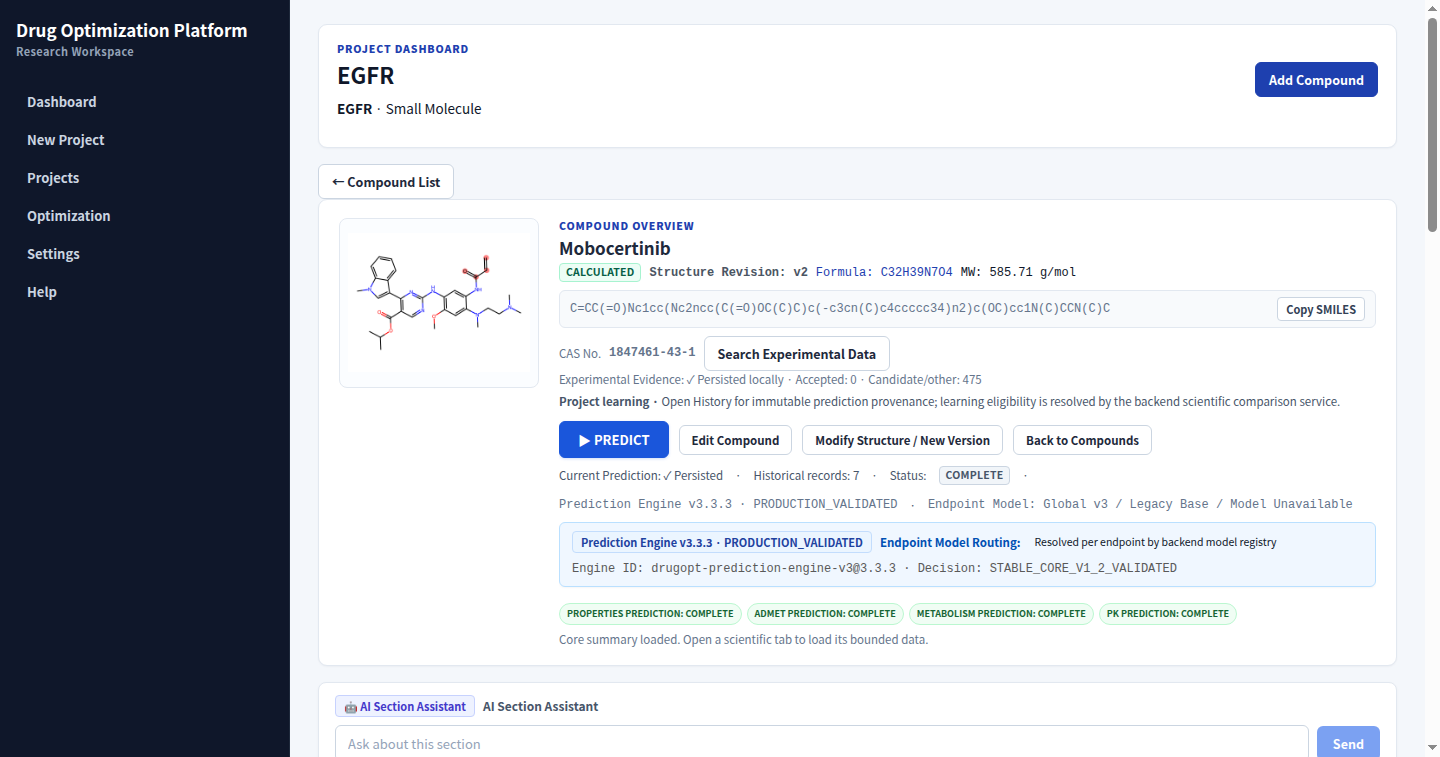
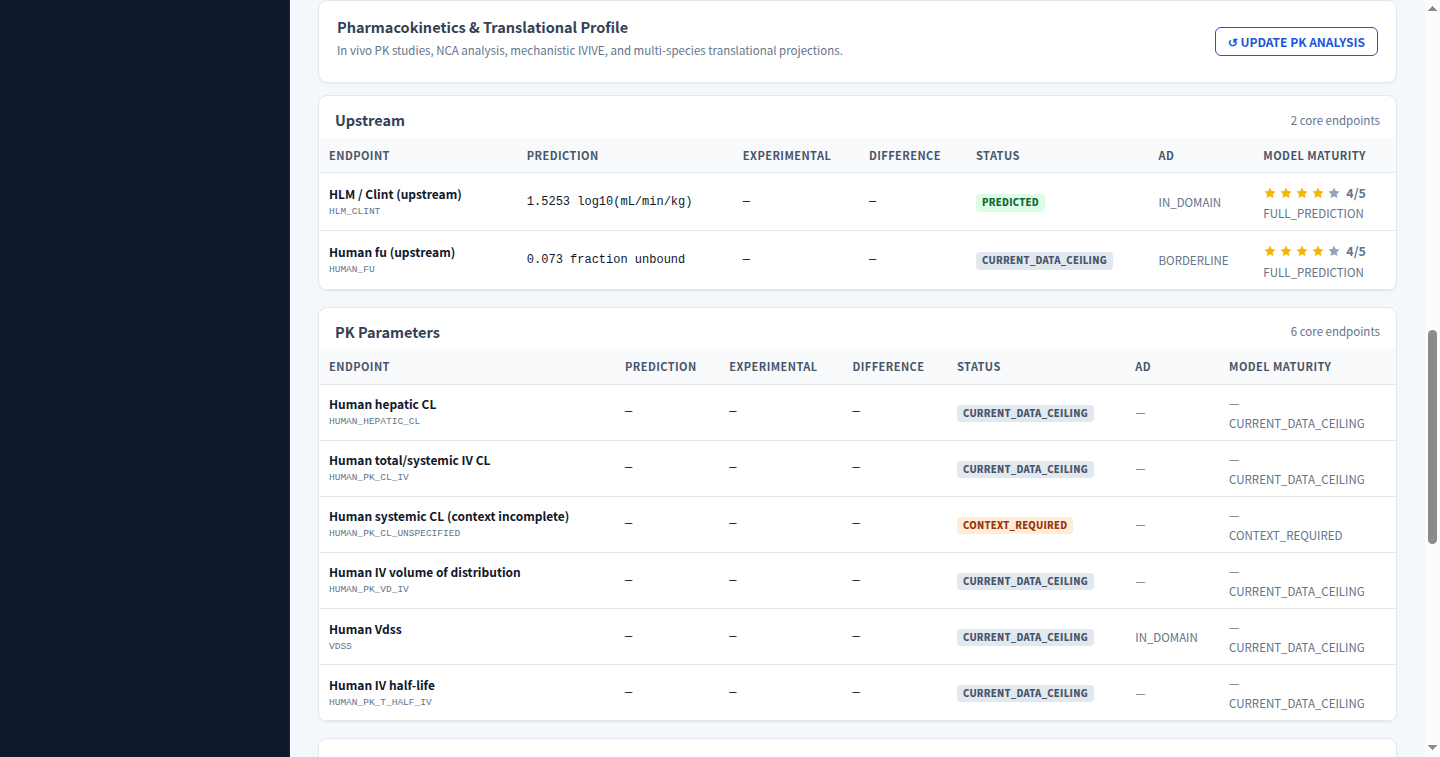
feat: show core prediction results in compound overview

diff --git a/frontend/static/app.js b/frontend/static/app.js
@@ -4455,19 +4455,26 @@ function integratedProfile(versionId){
   if(developabilityLoading&&!developabilityProfile)return e('section',{className:'card'},'Loading Developability Summary…');
   const groups=developabilityProfile?.groups;
   if(!groups)return e('section',{className:'card'},[e('h2',{},'Developability Summary'),e('p',{className:'small'},'Canonical profile unavailable for this CompoundVersion.')]);
+  const pick=(group,endpoints)=>(groups[group]||[]).filter(row=>endpoints.includes(row.query_endpoint));
   const cards=[
-   ['PhysChem',[...(groups.physchem||[]).filter(row=>['CLOGP','LOGD_7_4','SOLUBILITY_GENERIC','TPSA'].includes(row.query_endpoint))]],
-   ['Absorption',groups.absorption||[]],
-   ['Distribution',groups.distribution||[]],
+   ['ADMET',[
+    ...pick('physchem',['SOLUBILITY_GENERIC']),
+    ...pick('absorption',['CACO2_PAPP_AB','HIA','PAMPA_PERMEABILITY'])
+   ]],
+   ['Distribution',pick('distribution',['HUMAN_PPB','HUMAN_FU','BBB_PENETRATION','VDSS'])],
    ['Stability',groups.metabolic_stability||[]],
-   ['Safety',(groups.safety||[]).filter(row=>['HERG_LIABILITY','AMES_MUTAGENICITY','DILI_LIABILITY'].includes(row.query_endpoint))],
-   ['PK',(groups.pk||[]).filter(row=>row.semantic==='PK_PARAMETER').slice(0,5)]
+   ['CYP Quantitative',pick('cyp',['CYP1A2_INHIBITION','CYP2C9_INHIBITION','CYP2C19_INHIBITION','CYP2D6_INHIBITION','CYP3A4_INHIBITION'])],
+   ['CYP Classification',(groups.cyp||[]).filter(row=>row.semantic!=='QUANTITATIVE_INHIBITION')],
+   ['Transporters',pick('transporters',['PGP_INHIBITION','BCRP_INHIBITOR'])],
+   ['Safety',pick('safety',['HERG_LIABILITY','HERG_CLASS','AMES_MUTAGENICITY','DILI_LIABILITY'])],
+   ['Metabolism',groups.metabolism||[]],
+   ['PK',(groups.pk||[]).filter(row=>row.semantic==='PK_PARAMETER'||row.semantic==='CONTEXTUAL_PK')]
   ];
-  return e('section',{className:'developability-summary',key:'developability-summary'},[
-   e('div',{className:'developability-title'},[e('div',{},[e('div',{className:'eyebrow'},'PREDICTION-FIRST'),e('h2',{},'Developability Summary'),e('p',{className:'small'},'Predictions lead; accepted experimental evidence is shown inline for validation. Rows remain visible when a model or scientific context is unavailable.')]),e('span',{className:'mono small'},developabilityProfile.prediction_engine?.engine_id)]),
-   e('div',{className:'developability-card-grid'},cards.map(([title,rows])=>e('article',{className:'developability-summary-card',key:title},[
+  return e('section',{className:'developability-summary',id:'overview-developability-results',key:'developability-summary'},[
+   e('div',{className:'developability-title'},[e('div',{},[e('div',{className:'eyebrow'},'PREDICTION-FIRST'),e('h2',{},'Developability Summary — Core Prediction Results'),e('p',{className:'small'},'Canonical results follow the calculated compound properties. Predictions lead; accepted experimental evidence and precise unavailable or context-required states remain visible inline.')]),e('span',{className:'mono small'},developabilityProfile.prediction_engine?.engine_id)]),
+   e('div',{className:'developability-card-grid'},cards.map(([title,rows])=>e('article',{className:'developability-summary-card',key:title,'data-overview-group':title},[
     e('h3',{},title),
-    ...rows.map(row=>e('div',{className:'developability-summary-row',key:row.query_endpoint},[
+    ...rows.map((row,index)=>e('div',{className:'developability-summary-row',key:row.query_endpoint+'|'+row.semantic+'|'+index,'data-endpoint':row.query_endpoint},[
      e('span',{},row.display_name),
      e('strong',{className:'mono'},profileValue(row.prediction,row.unit)),
      row.experimental&&e('small',{className:'mono'},'Exp '+profileValue(row.experimental,row.unit)),
@@ -4668,8 +4675,7 @@ function integratedProfile(versionId){
     return e('button',{key:tab,className:detailTab===tab?'active-tab':'secondary',disabled:!version&&['properties','admet','metabolism','pk','evidence'].includes(tab),onClick:()=>setDetailTab(tab)},[e('span',{key:'label'},tab.toUpperCase()),tab!=='overview'&&tab!=='history'&&e('small',{key:'status',className:'tab-status'},status)]);
    })),
    detailTab==='overview'&&e('div',{key:'overview-tab'},[
-    developabilitySummary(),
-    false&&e('div',{className:'card',key:'overview-properties'},[
+    e('div',{className:'card overview-properties',key:'overview-properties'},[
      e('div',{className:'eyebrow'},'BASIC PROPERTY SUMMARY'),
      e('h3',{},'Physicochemical & Drug-Likeness Summary (Calculated / RDKit)'),
      e('p',{className:'small'},'Deterministic calculated small molecule properties and drug-likeness compliance.'),
@@ -4689,6 +4695,7 @@ function integratedProfile(versionId){
       ScientificBadge({assessment:item.i.assessment,colorClass:item.i.colorClass,textLabel:item.i.label})
      ])))
     ]),
+    developabilitySummary(),
     false&&e('div',{className:'card',key:'overview-admet-highlights'},[
      e('div',{className:'row toolbar'},[
       e('div',{},[

diff --git a/frontend/static/app.css b/frontend/static/app.css
@@ -1715,6 +1715,7 @@ td.num, th.num { text-align: right; font-variant-numeric: tabular-nums; }
 
 /* Prediction-first developability workspace */
 .developability-summary { margin: 0 0 16px; }
+.overview-properties + .developability-summary { margin-top: 16px; }
 .developability-title {
   display: flex; justify-content: space-between; align-items: flex-start; gap: 16px;
   padding: 18px 20px; color: #f8fafc; background: linear-gradient(120deg,#102a43,#164e63);
@@ -1772,4 +1773,3 @@ td.num, th.num { text-align: right; font-variant-numeric: tabular-nums; }
   .developability-table td:first-child strong { font-size:14px; }
   .developability-table .maturity-stars { min-width:0; }
 }
-

diff --git a/scripts/mobocertinib_prediction_completeness_e2e.py b/scripts/mobocertinib_prediction_completeness_e2e.py
@@ -31,6 +31,22 @@ def assert_value(browser, endpoint: str) -> None:
     assert endpoint_cell(browser, endpoint, ".developability-status") in {"PREDICTED", "EXPERIMENTAL_AVAILABLE"}, endpoint
 
 
+def overview_row(browser, endpoint: str):
+    section = browser.find_element(By.ID, "overview-developability-results")
+    return section.find_element(By.CSS_SELECTOR, f".developability-summary-row[data-endpoint='{endpoint}']")
+
+
+def assert_overview_order(browser) -> None:
+    properties = browser.find_element(By.CSS_SELECTOR, ".overview-properties")
+    results = browser.find_element(By.ID, "overview-developability-results")
+    follows = browser.execute_script(
+        "return Boolean(arguments[0].compareDocumentPosition(arguments[1]) & Node.DOCUMENT_POSITION_FOLLOWING)",
+        properties,
+        results,
+    )
+    assert follows, "calculated compound Properties must precede core prediction results"
+
+
 def main() -> None:
     projects = api("/api/projects")
     project = next(row for row in projects if row["name"] == "EGFR")
@@ -60,6 +76,27 @@ def main() -> None:
             open_project_compound(desktop, wait, "EGFR", "Mobocertinib")
             click(desktop, "▶ PREDICT")
             wait.until(lambda d: "Predicted:" in d.page_source and "Failed: 0" in d.page_source)
+
+            wait.until(lambda d: d.find_elements(By.ID, "overview-developability-results"))
+            assert_overview_order(desktop)
+            expected_overview = {
+                "SOLUBILITY_GENERIC": "-5.6371 log10(mol/L)",
+                "CACO2_PAPP_AB": "-4.9117 log10(cm/s)",
+                "HUMAN_PPB": "92.7 % bound",
+                "HLM_CLINT": "1.5253 log10(mL/min/kg)",
+                "CYP3A4_INHIBITION": "7.1835 pIC50",
+                "HERG_LIABILITY": "7.4388 pIC50",
+            }
+            for endpoint, expected in expected_overview.items():
+                row = overview_row(desktop, endpoint)
+                assert row.find_element(By.TAG_NAME, "strong").text.strip() == expected, endpoint
+                assert row.find_element(By.CLASS_NAME, "developability-status").text.strip() == "PREDICTED", endpoint
+            assert overview_row(desktop, "HIA").find_element(By.CLASS_NAME, "developability-status").text.strip() == "MODEL_NOT_REGISTERED"
+            assert overview_row(desktop, "AMES_MUTAGENICITY").find_element(By.CLASS_NAME, "developability-status").text.strip() == "MODEL_UNAVAILABLE"
+            assert overview_row(desktop, "HUMAN_PK_AUC_ORAL").find_element(By.CLASS_NAME, "developability-status").text.strip() == "CONTEXT_REQUIRED"
+            desktop.execute_script("arguments[0].scrollIntoView({block:'start'})", desktop.find_element(By.CSS_SELECTOR, ".overview-properties"))
+            desktop.save_screenshot(str(OUT / "desktop_1440x900_mobocertinib_overview.png"))
+            result["overview_properties_then_core_results"] = "PASS"
 
             click_tab(desktop, "ADMET")
             wait.until(lambda d: d.find_elements(By.CSS_SELECTOR, "tr[data-endpoint='CACO2_PAPP_AB']"))
@@ -99,6 +136,15 @@ def main() -> None:
             mobile.get(os.environ["DRUGOPT_E2E_BASE_URL"])
             mobile_wait.until(lambda d: d.find_elements(By.CLASS_NAME, "shell"))
             open_project_compound(mobile, mobile_wait, "EGFR", "Mobocertinib")
+            mobile_wait.until(lambda d: d.find_elements(By.ID, "overview-developability-results"))
+            assert_overview_order(mobile)
+            assert overview_row(mobile, "SOLUBILITY_GENERIC").is_displayed()
+            assert overview_row(mobile, "HLM_CLINT").is_displayed()
+            overview_overflow = mobile.execute_script("return document.documentElement.scrollWidth-document.documentElement.clientWidth")
+            assert overview_overflow <= 1, f"mobile Overview horizontal overflow: {overview_overflow}px"
+            mobile.execute_script("arguments[0].scrollIntoView({block:'start'})", mobile.find_element(By.CSS_SELECTOR, ".overview-properties"))
+            mobile.save_screenshot(str(OUT / "mobile_390x844_mobocertinib_overview.png"))
+            result["mobile_overview_properties_then_core_results"] = "PASS"
             click_tab(mobile, "ADMET")
             mobile_wait.until(lambda d: d.find_elements(By.CSS_SELECTOR, "tr[data-endpoint='CACO2_PAPP_AB']"))
             assert_value(mobile, "CACO2_PAPP_AB")
